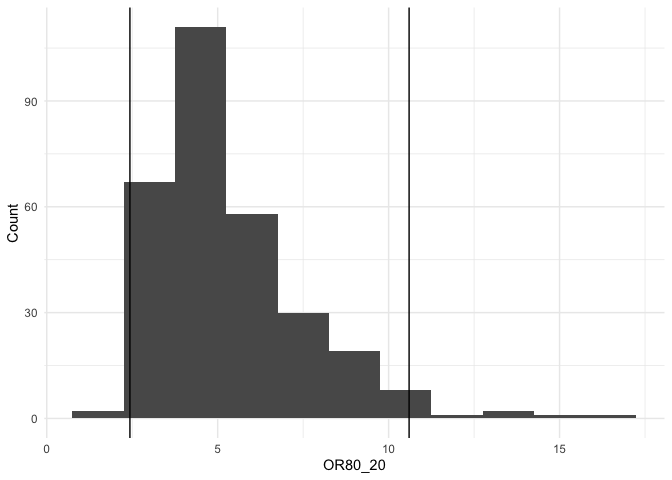
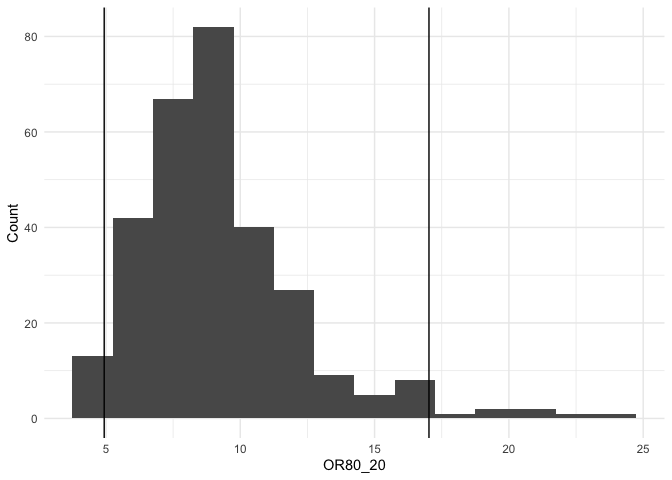
update test data to not have those weird flat tails

diff --git a/README.md b/README.md
@@ -68,12 +68,12 @@ head(test_data)
 ```
 
     ##          phs      age status
-    ## 1  1.2959195 61.20479      0
-    ## 2  0.7677172 52.15337      0
-    ## 3  1.8747000 56.05307      0
-    ## 4 -1.0106221 81.71140      0
-    ## 5 -0.7239738 61.37459      0
-    ## 6 -1.2076723 54.56741      0
+    ## 1  0.8425735 67.95011      1
+    ## 2  1.1151321 56.31356      0
+    ## 3 -0.3777455 72.94103      1
+    ## 4  0.1201511 82.01571      1
+    ## 5 -0.4041602 74.33629      1
+    ## 6 -0.4531890 77.15814      1
 
 Next, plot the histogram of PHSes by case/control status.
 
@@ -94,10 +94,10 @@ str(HR80_20)
 
     ## List of 5
     ##  $ index    : chr "HR80_20"
-    ##  $ value    : num 7.34
-    ##  $ conf.low : num 5.1
-    ##  $ conf.high: num 11.2
-    ##  $ iters    : num [1:300, 1] 6.7 8.81 7.1 5.08 4.73 ...
+    ##  $ value    : num 8.17
+    ##  $ conf.low : num 6.04
+    ##  $ conf.high: num 12.1
+    ##  $ iters    : num [1:300, 1] 7.9 5.74 7.28 7.17 8.95 ...
 
 Each `get_` function also returns the output from each bootstrap
 iteration in `$iters` so that the user can plot these or calculate their
@@ -125,10 +125,10 @@ str(OR80_20)
 
     ## List of 5
     ##  $ index    : chr "OR80_20"
-    ##  $ value    : num 4.86
-    ##  $ conf.low : num 2.43
-    ##  $ conf.high: num 10.6
-    ##  $ iters    : num [1:300, 1] 6.01 3.82 4.98 4.59 4.36 ...
+    ##  $ value    : num 8.52
+    ##  $ conf.low : num 4.93
+    ##  $ conf.high: num 17
+    ##  $ iters    : num [1:300, 1] 9.37 7.06 4.6 12.74 11.28 ...
 
 ``` r
 ggplot(mapping = aes(x = OR80_20$iters)) +
@@ -152,10 +152,10 @@ str(c_index)
 
     ## List of 5
     ##  $ index    : chr "C_Index"
-    ##  $ value    : num 0.671
-    ##  $ conf.low : num 0.627
-    ##  $ conf.high: num 0.711
-    ##  $ iters    : num [1:300, 1] 0.681 0.664 0.688 0.676 0.673 ...
+    ##  $ value    : num 0.708
+    ##  $ conf.low : num 0.681
+    ##  $ conf.high: num 0.734
+    ##  $ iters    : num [1:300, 1] 0.707 0.707 0.717 0.694 0.705 ...
 
 Finally, plot the Kaplan-Meier curves with confidence intervals for
 centiles of interest.
@@ -203,6 +203,9 @@ ggplot(km_curves, aes(x = time,
     scale_fill_brewer(palette = "Set1",
                        name = "Centile")
 ```
+
+    ## Warning: Removed 15 rows containing missing values or values outside the scale range
+    ## (`geom_step()`).
 
 ![](README_files/figure-gfm/km_curve-1.png)<!-- -->
 
